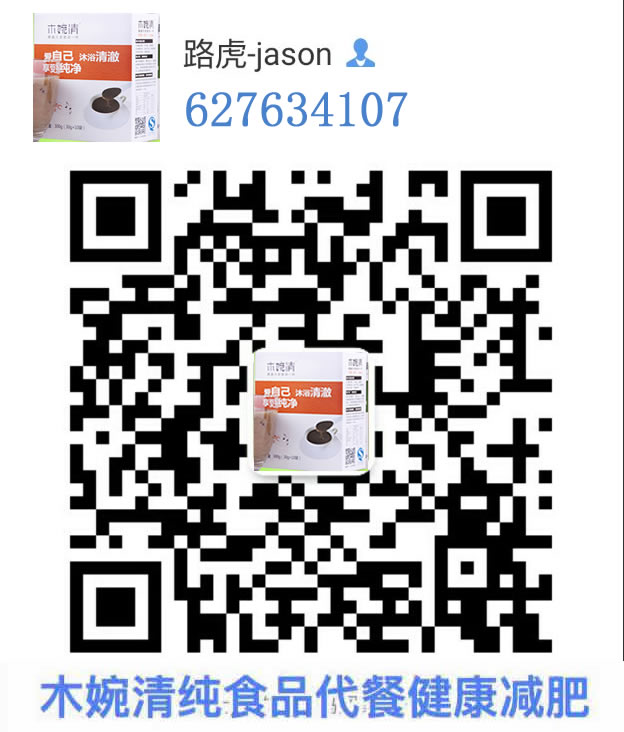
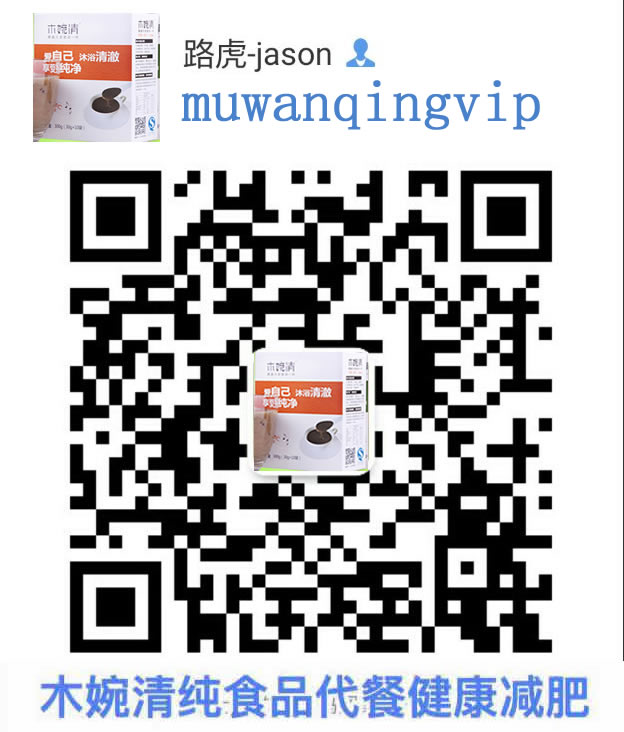
cs

Changed region(s): [[0.274, 0.0902, 0.883, 0.1803]]

diff --git a/index.html b/index.html
@@ -234,7 +234,7 @@
 <!--侧边栏-end-->
 <!--为了自己的身体健康，为了家人的健康，还等什么呢？速速来咨询订购。欢迎加微信咨询了解-->
 <div class="mwq-bottom">
-    <div class="bottom-txt">木婉清调气血、补脑、排毒、调脾胃、暖宫调理月经。加微信<span>627634107</span>订购，
+    <div class="bottom-txt">木婉清调气血、补脑、排毒、调脾胃、暖宫调理月经。加微信<span>muwanqingvip</span>订购，
         为了自己，家人健康行动起来</div>
 </div>
 <!---->

diff --git a/about_us.html b/about_us.html
@@ -80,7 +80,7 @@
 <!--侧边栏-end-->
 <!--为了自己的身体健康，为了家人的健康，还等什么呢？速速来咨询订购。欢迎加微信咨询了解-->
 <div class="mwq-bottom">
-    <div class="bottom-txt">木婉清调气血、补脑、排毒、调脾胃、暖宫调理月经。加微信<span>627634107</span>订购，
+    <div class="bottom-txt">木婉清调气血、补脑、排毒、调脾胃、暖宫调理月经。加微信<span>muwanqingvip</span>订购，
         为了自己，家人健康行动起来</div>
 </div>
 <!---->

diff --git a/chanpinjieshao.html b/chanpinjieshao.html
@@ -88,7 +88,7 @@
 <!--侧边栏-end-->
 <!--为了自己的身体健康，为了家人的健康，还等什么呢？速速来咨询订购。欢迎加微信咨询了解-->
 <div class="mwq-bottom">
-    <div class="bottom-txt">木婉清调气血、补脑、排毒、调脾胃、暖宫调理月经。加微信<span>627634107</span>订购，
+    <div class="bottom-txt">木婉清调气血、补脑、排毒、调脾胃、暖宫调理月经。加微信<span>muwanqingvip</span>订购，
         为了自己，家人健康行动起来</div>
 </div>
 <!---->

diff --git a/chganli.html b/chganli.html
@@ -97,7 +97,7 @@
 <!--侧边栏-end-->
 <!--为了自己的身体健康，为了家人的健康，还等什么呢？速速来咨询订购。欢迎加微信咨询了解-->
 <div class="mwq-bottom">
-    <div class="bottom-txt">木婉清调气血、补脑、排毒、调脾胃、暖宫调理月经。加微信<span>627634107</span>订购，
+    <div class="bottom-txt">木婉清调气血、补脑、排毒、调脾胃、暖宫调理月经。加微信<span>muwanqingvip</span>订购，
         为了自己，家人健康行动起来</div>
 </div>
 <!---->

diff --git a/jiance.html b/jiance.html
@@ -86,7 +86,7 @@
 <!--侧边栏-end-->
 <!--为了自己的身体健康，为了家人的健康，还等什么呢？速速来咨询订购。欢迎加微信咨询了解-->
 <div class="mwq-bottom">
-    <div class="bottom-txt">木婉清调气血、补脑、排毒、调脾胃、暖宫调理月经。加微信<span>627634107</span>订购，
+    <div class="bottom-txt">木婉清调气血、补脑、排毒、调脾胃、暖宫调理月经。加微信<span>muwanqingvip</span>订购，
         为了自己，家人健康行动起来</div>
 </div>
 <!---->

diff --git a/join_us.html b/join_us.html
@@ -91,7 +91,7 @@
 <!--侧边栏-end-->
 <!--为了自己的身体健康，为了家人的健康，还等什么呢？速速来咨询订购。欢迎加微信咨询了解-->
 <div class="mwq-bottom">
-    <div class="bottom-txt">木婉清调气血、补脑、排毒、调脾胃、暖宫调理月经。加微信<span>627634107</span>订购，
+    <div class="bottom-txt">木婉清调气血、补脑、排毒、调脾胃、暖宫调理月经。加微信<span>muwanqingvip</span>订购，
         为了自己，家人健康行动起来</div>
 </div>
 <!---->
